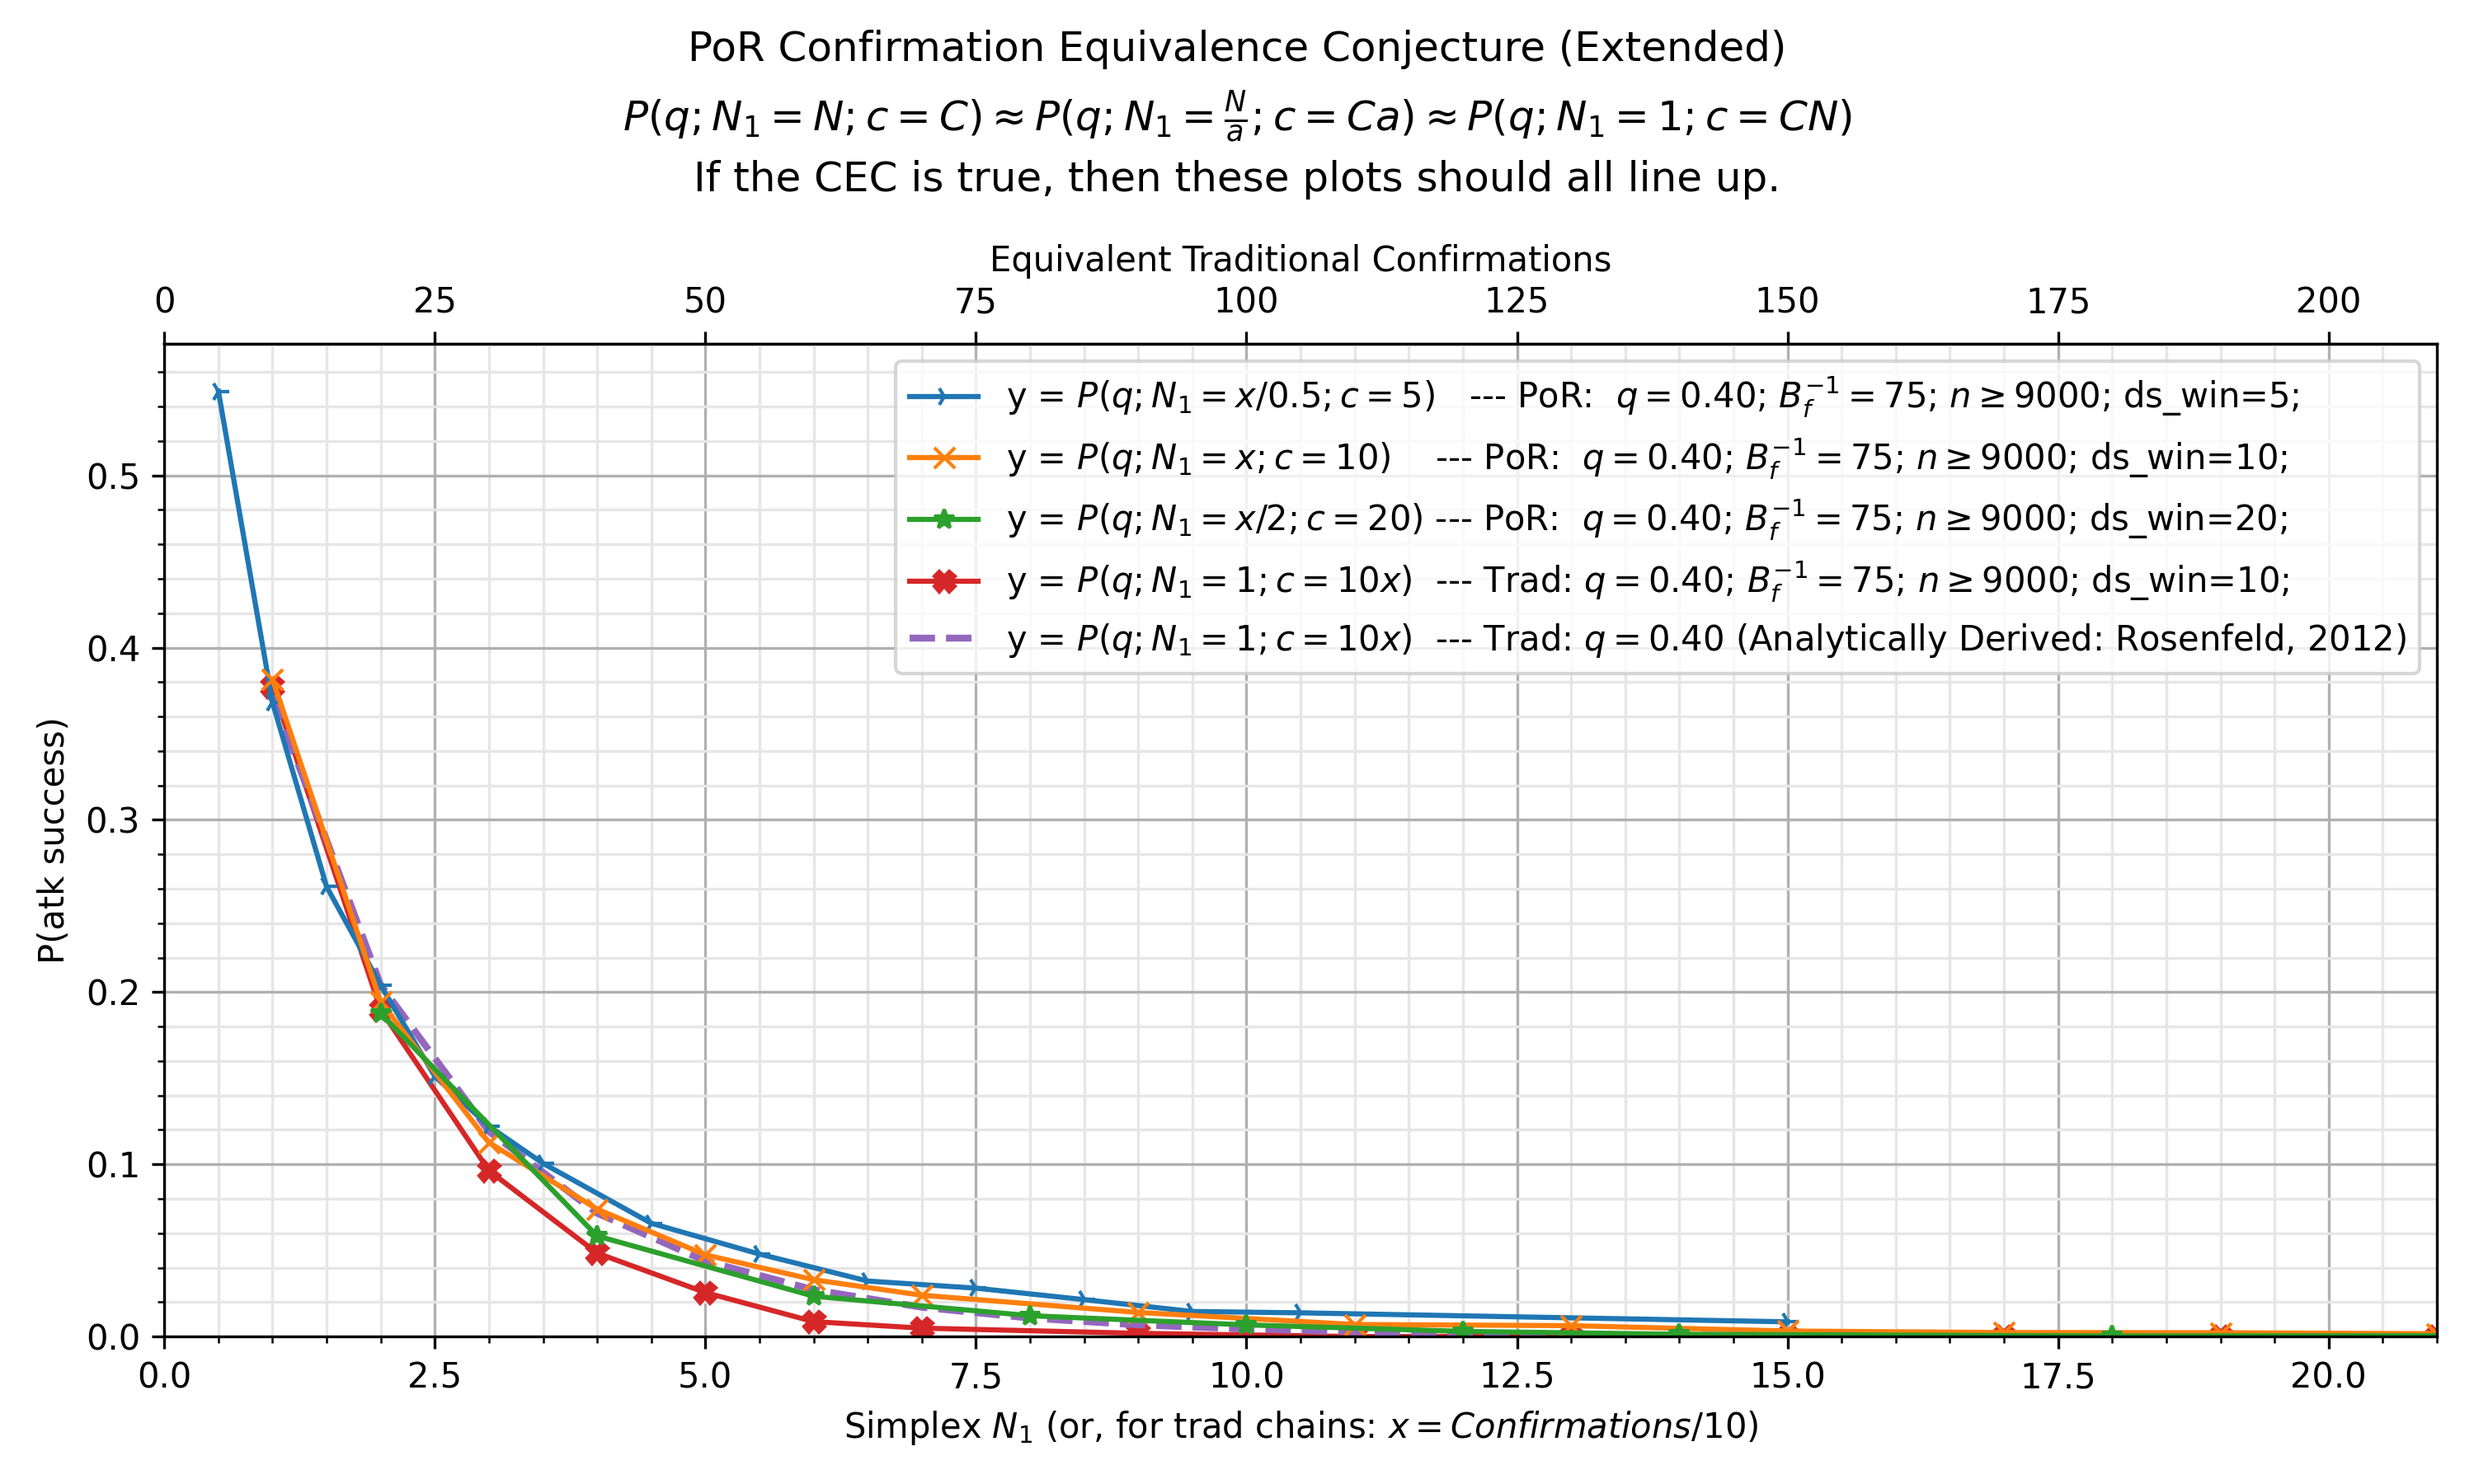
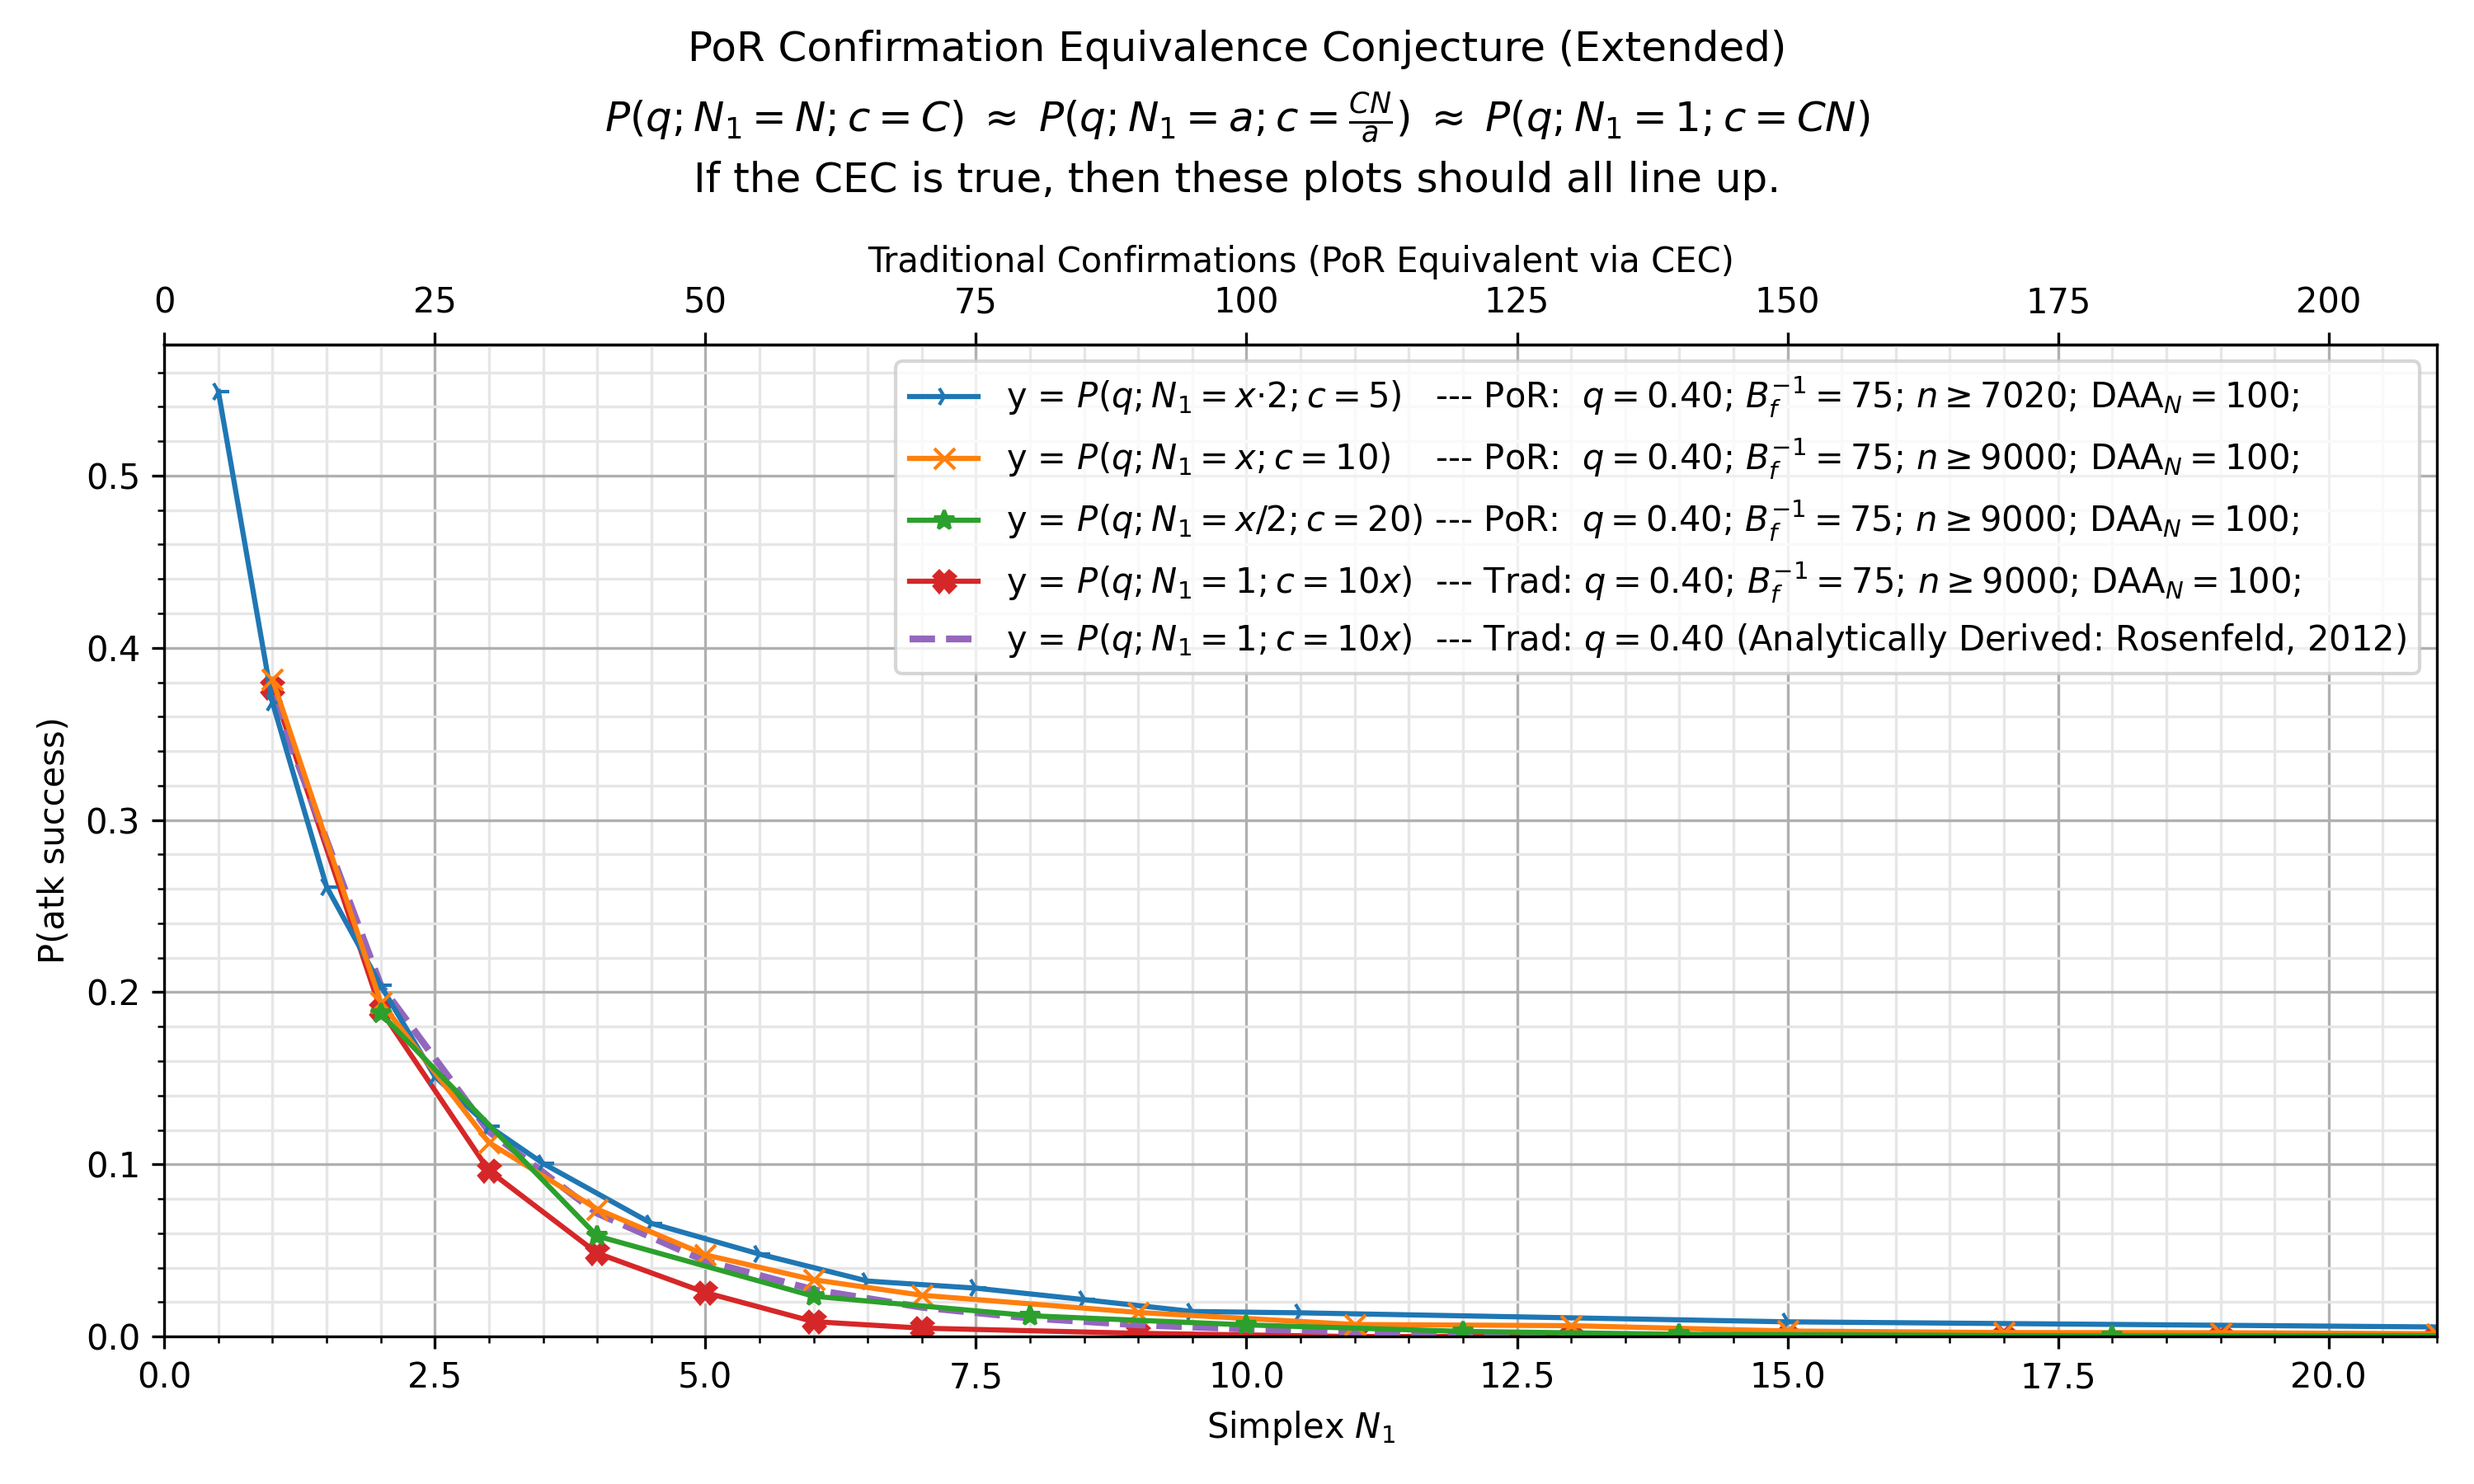
update charts -- alignment, DAA_N

diff --git a/experiments/por-sim-rs/bin/py_stats.py b/experiments/por-sim-rs/bin/py_stats.py
@@ -189,6 +189,7 @@ def read_csv_data(fname, chain_ty: Literal['por', 'trad']):
     # print(f"Reading: {fname}")
     d: pd.DataFrame = pd.read_csv(fname)
     only_target = d['block_target'][1]
+    daa = d['daa2_n_blocks'][1]
     ds_target = int(d['doublespend_after_n_confs'][1])
     q = d['atk_q'][1]
     if chain_ty == 'por':
@@ -214,13 +215,13 @@ def read_csv_data(fname, chain_ty: Literal['por', 'trad']):
     ys = list(win_counter[x] / row_counter[x] for x in xs if row_counter[x] > 0)
     max_ix = max(xs)
     series = pd.Series(ys, index=[x for x in xs if x <= max_ix])
-    series2 = pd.Series([y**0.7 for y in ys], index=[x for x in xs[:max_ix]])
+    # series2 = pd.Series([y**0.7 for y in ys], index=[x for x in xs[:max_ix]])
     # s3 = pd.Series(ys, index=[math.sqrt(x) for x in xs[:max_ix]])
     # s4 = pd.Series(ys, index=[x**(2/3) for x in xs[:max_ix]])
     ms_elapsed = d.reset_index().groupby('n_chains')['ms_elapsed'].mean()
     nts = list(n for x,n in row_counter.items())
     n_trials = int(numpy.array(nts).min())
-    return n_trials, max_ix, only_target, q, ds_target, series, ms_elapsed, series2
+    return n_trials, max_ix, only_target, q, ds_target, series, ms_elapsed, daa
 
 
 por_line_markers = ['x','*','3','+','4'] * 10
@@ -265,12 +266,17 @@ class Comment:
         }
 
 
+scaled_conv_lookup = {0.25: '4', 0.5: '2'}
+
+
 def gen_cec_prob_str(ds_target, is_trad=False, scaled=None):
     extra_pad = '  ' if int(ds_target) < 10 else ''
     # spacing at end is to help them line up in plot legend
     cec_prob = f"$P(q; N_1 = x; c = {ds_target})$   "
     cec_trad_prob = f"$P(q; N_1 = 1; c = {ds_target}x)$ "
     cec_scaled_prob = f"$P(q; N_1 = x / {scaled}; c = {ds_target})$"
+    if scaled and scaled < 1 and scaled_conv_lookup.get(scaled, None):
+        cec_scaled_prob = f"$P(q; N_1 = x · {scaled_conv_lookup[scaled]}; c = {ds_target})$"
     return (cec_trad_prob if is_trad else (cec_scaled_prob if scaled else cec_prob)) + extra_pad
 
 
@@ -307,7 +313,7 @@ def plot_chart(csv_files: list[CsvFileToPlot], plot_kwargs=None, graph_theory_di
             por_plot_opts = label_extra
             label_extra = por_plot_opts.label_extra
 
-        n_trials, max_ix, block_target, _q, ds_target, csv_data, ms_elapsed, d2 = read_csv_data(fname, chain_ty)
+        n_trials, max_ix, block_target, _q, ds_target, csv_data, ms_elapsed, daa = read_csv_data(fname, chain_ty)
         csv_series.append(csv_data)
         if chain_ty == 'por':
             ty_str = 'PoR: '
@@ -326,7 +332,7 @@ def plot_chart(csv_files: list[CsvFileToPlot], plot_kwargs=None, graph_theory_di
 
         prob_math = gen_cec_prob_str(ds_target, is_trad=is_trad, scaled=por_plot_opts and por_plot_opts.cec_scaled)
         if 'label' not in _kwargs:
-            _kwargs['label'] = f"y = {prob_math} --- {ty_str} $q={_q:.2f}$; $B_f^{{-1}} = {block_target}$; $n \\geq {n_trials}$; ds_win={ds_target}; {label_extra or ''}"
+            _kwargs['label'] = f"y = {prob_math} --- {ty_str} $q={_q:.2f}$; $B_f^{{-1}} = {block_target}$; $n \\geq {n_trials}$; $\\mathrm{{DAA}}_N = {daa}$; {label_extra or ''}"
 
         csv_data.plot(**_kwargs)
         # ms_elapsed.plot(label=f"$\\bar{{d}}$ (ms); $B_f^{{-1}} = {block_target}$", secondary_y=True)
@@ -380,7 +386,7 @@ def plot_chart(csv_files: list[CsvFileToPlot], plot_kwargs=None, graph_theory_di
         c2n = lambda c: c / ds_c
         n2c = lambda n: n * ds_c
         sec_x_axis = plt.gca().secondary_xaxis('top', functions=(n2c, c2n))
-        sec_x_axis.set_xlabel('Equivalent Traditional Confirmations')
+        sec_x_axis.set_xlabel('Traditional Confirmations (PoR Equivalent via CEC)')
 
     if x_range:
         plt.xlim(x_range)
@@ -729,13 +735,13 @@ def main(filter_fname: Optional[str], n_jobs: int):
 
 
     def std_x_label(t):
-        # return f"PoR: $x = N_1$; Trad: $x = Confirmations / {t}$"
-        return f"Simplex $N_1$ (or, for trad chains: $x = Confirmations / {t}$)"
+        return f"Simplex $N_1$"
 
 
     CEC_TITLE_STR = "$P(q; N_1 = N; c = C) \\approx P(q; N_1 = 1; c = NC)$"
     CEC_EXT_TITLE_STR = "$P(q; N_1 = N; c = C) \\approx P(q; N_1 = \\frac{{N}}{{2}}; c = 2C)$"
-    CEC_EXT2_TITLE_STR = "$P(q; N_1 = N; c = C) \\approx P(q; N_1 = \\frac{{N}}{{a}}; c = Ca) \\approx P(q; N_1 = 1; c = CN)$"
+    CEC_EXT2_TITLE_STR = "$P(q; N_1 = N; c = C) \\; \\approx \\; P(q; N_1 = a; c = \\frac{{CN}}{{a}}) \\; \\approx \\; P(q; N_1 = 1; c = CN)$"
+    CEC_EXT3_TITLE_STR = "$P(q; N_1 = N; c = C) \\; \\approx \\; P(q; N_1 = \\frac{{N}}{{a}}; c = Ca) \\; \\approx \\; P(q; N_1 = 1; c = CN)$"
 
 
     jobs_to_save: list[SavePlot] = [
